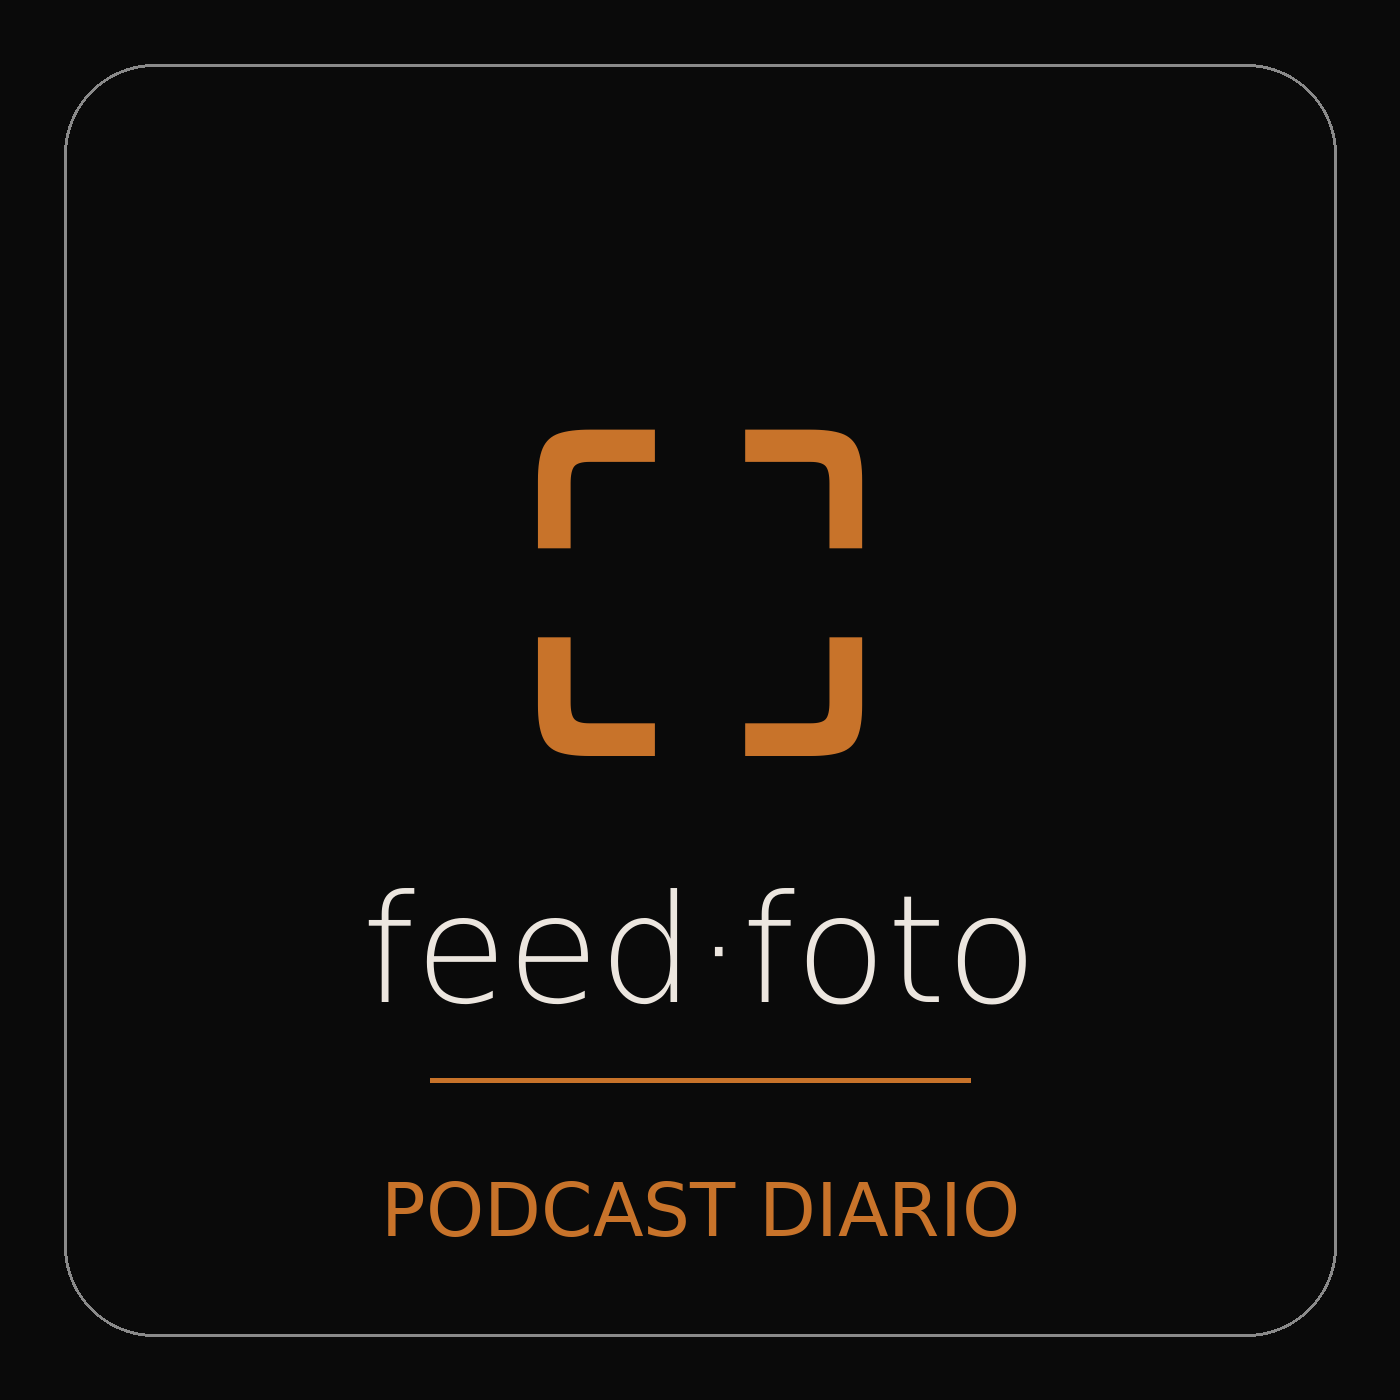
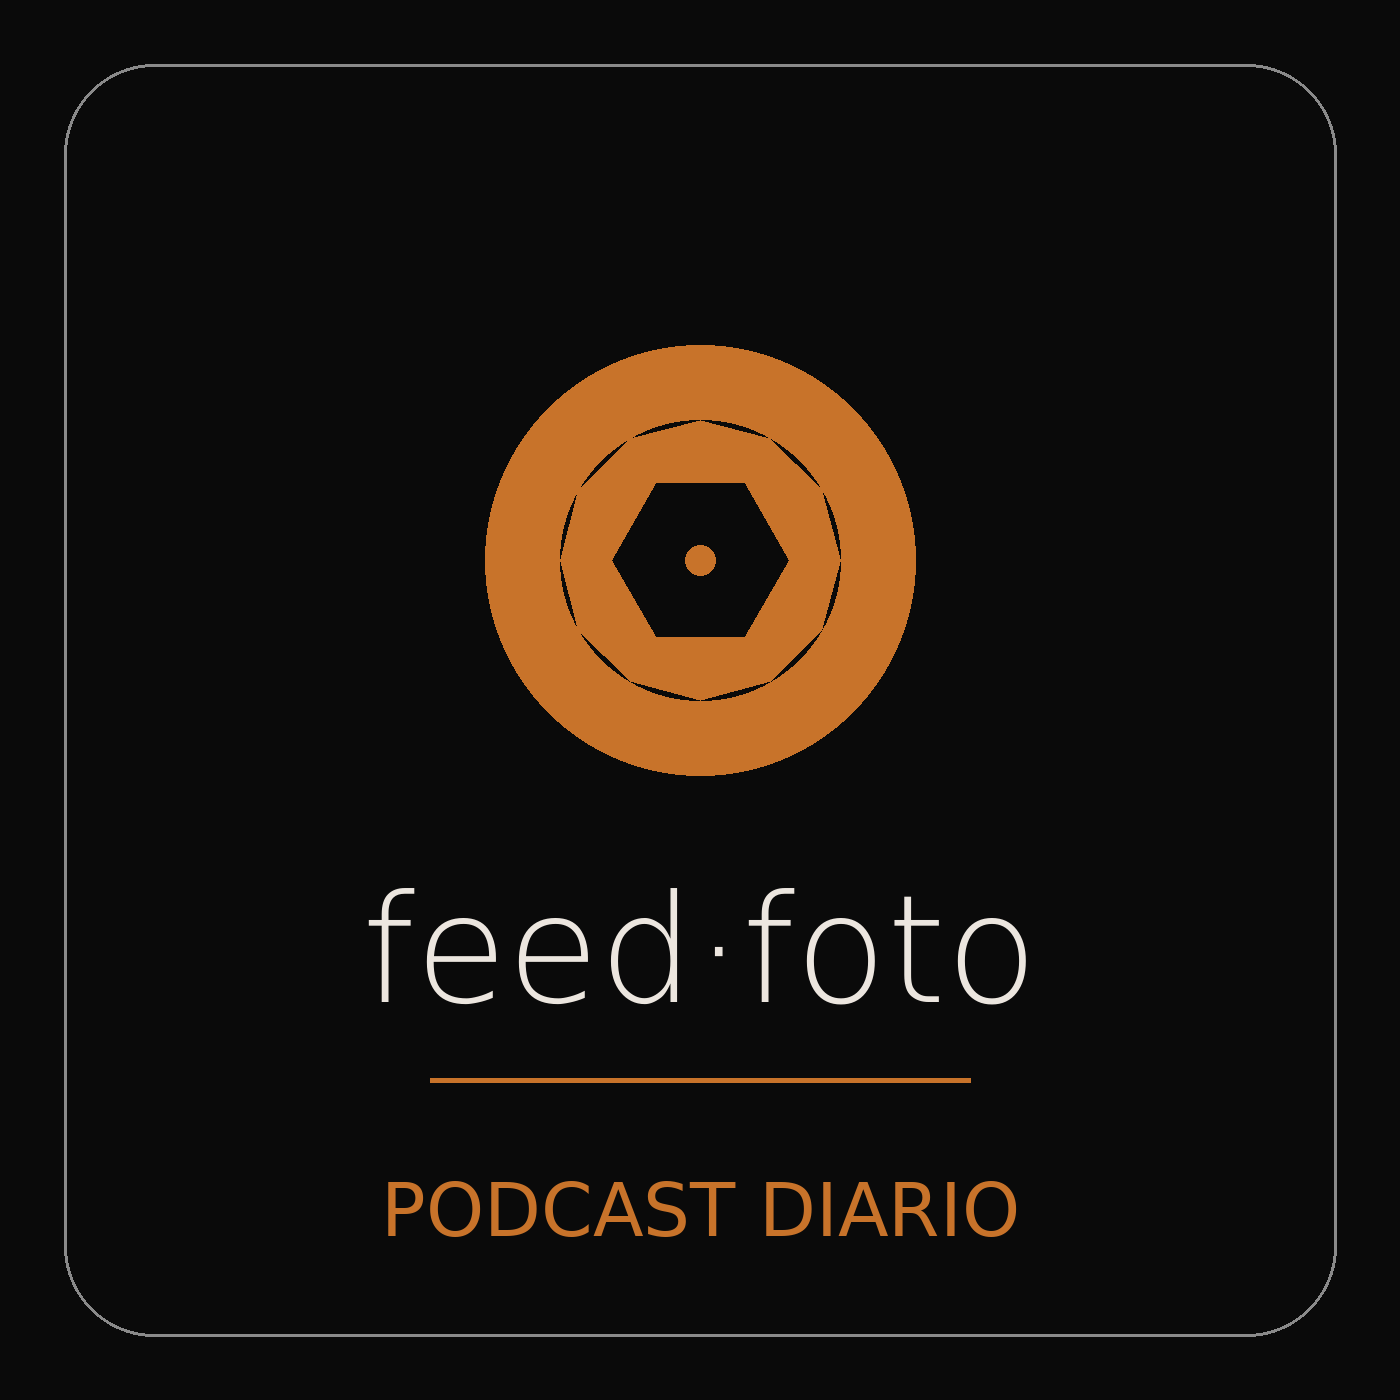
chore: podcast cover with aperture/shutter mark (the decisive moment)

Changed region(s): [[0.3379, 0.2457, 0.6757, 0.5529]]

diff --git a/make_podcast_cover.py b/make_podcast_cover.py
@@ -1,3 +1,4 @@
+import math
 import os
 
 from PIL import Image, ImageDraw, ImageFont
@@ -16,16 +17,21 @@ def font(name, size):
     return ImageFont.truetype(os.path.join(FONT_DIR, name), size)
 
 
-def glyph_font(size):
-    candidates = [
-        '/usr/share/fonts/truetype/noto/NotoSansSymbols-Medium.ttf',
-        '/usr/share/fonts/truetype/noto/NotoSansSymbols-Regular.ttf',
-        os.path.join(FONT_DIR, 'DejaVuSans.ttf'),
-    ]
-    for c in candidates:
-        if os.path.exists(c):
-            return ImageFont.truetype(c, size)
-    return ImageFont.truetype(candidates[0], size)
+def draw_aperture(d, cx, cy, r_outer=215, r_ring=140, r_hole=88, n=6):
+    d.ellipse([cx - r_outer, cy - r_outer, cx + r_outer, cy + r_outer], fill=FG)
+    d.ellipse([cx - r_ring, cy - r_ring, cx + r_ring, cy + r_ring], fill=BG)
+    for i in range(n):
+        a0 = i * (2 * math.pi / n)
+        a1 = (i + 1) * (2 * math.pi / n)
+        hex_i = (cx + r_hole * math.cos(a0), cy + r_hole * math.sin(a0))
+        hex_j = (cx + r_hole * math.cos(a1), cy + r_hole * math.sin(a1))
+        arc = [(cx + r_ring * math.cos(a), cy + r_ring * math.sin(a))
+               for a in (a1, (a0 + a1) / 2, a0)]
+        d.polygon([hex_i, hex_j] + arc, fill=FG)
+    hole = [(cx + r_hole * math.cos(i * 2 * math.pi / n),
+             cy + r_hole * math.sin(i * 2 * math.pi / n)) for i in range(n)]
+    d.polygon(hole, fill=BG)
+    d.ellipse([cx - 15, cy - 15, cx + 15, cy + 15], fill=FG)
 
 
 def main():
@@ -36,11 +42,10 @@ def main():
     d.rounded_rectangle([pad, pad, SIZE - pad, SIZE - pad], radius=90,
                         outline=MUTED, width=3)
 
-    f_glyph = glyph_font(430)
     f_word = font('DejaVuSans-ExtraLight.ttf', 150)
     f_sub = font('DejaVuSans.ttf', 74)
 
-    d.text((SIZE / 2, 560), '⛶', font=f_glyph, fill=FG, anchor='mm')
+    draw_aperture(d, SIZE / 2, 560)
     d.text((SIZE / 2, 950), 'feed·foto', font=f_word, fill=LIGHT, anchor='mm')
     d.line([(430, 1080), (970, 1080)], fill=FG, width=5)
     d.text((SIZE / 2, 1210), 'PODCAST DIARIO', font=f_sub, fill=FG,
